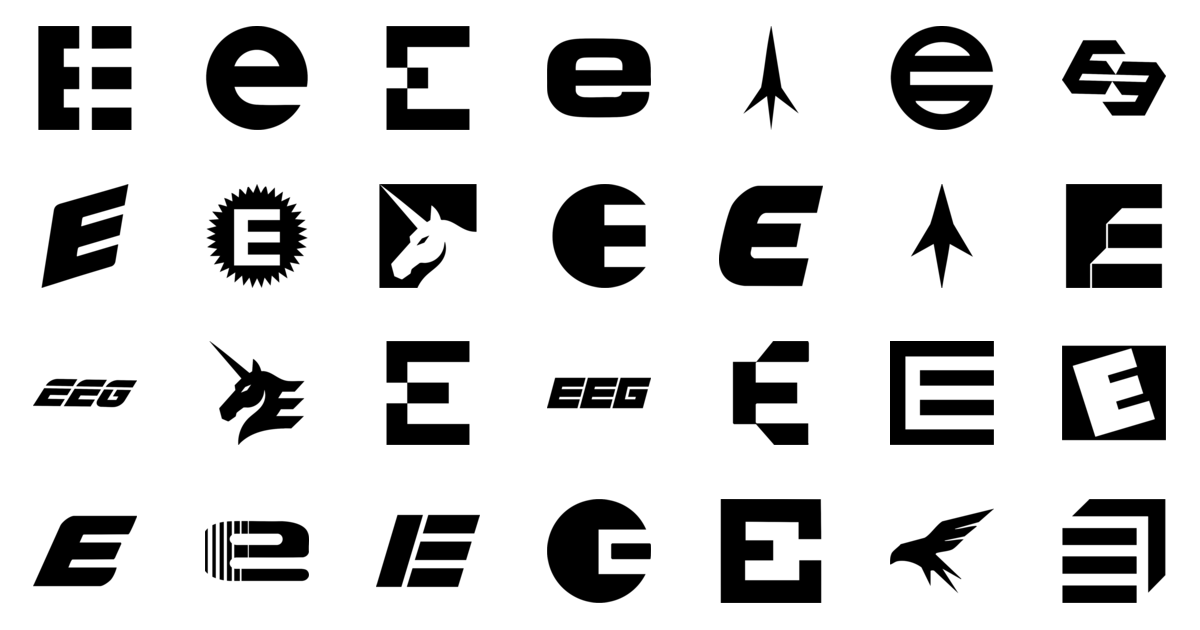
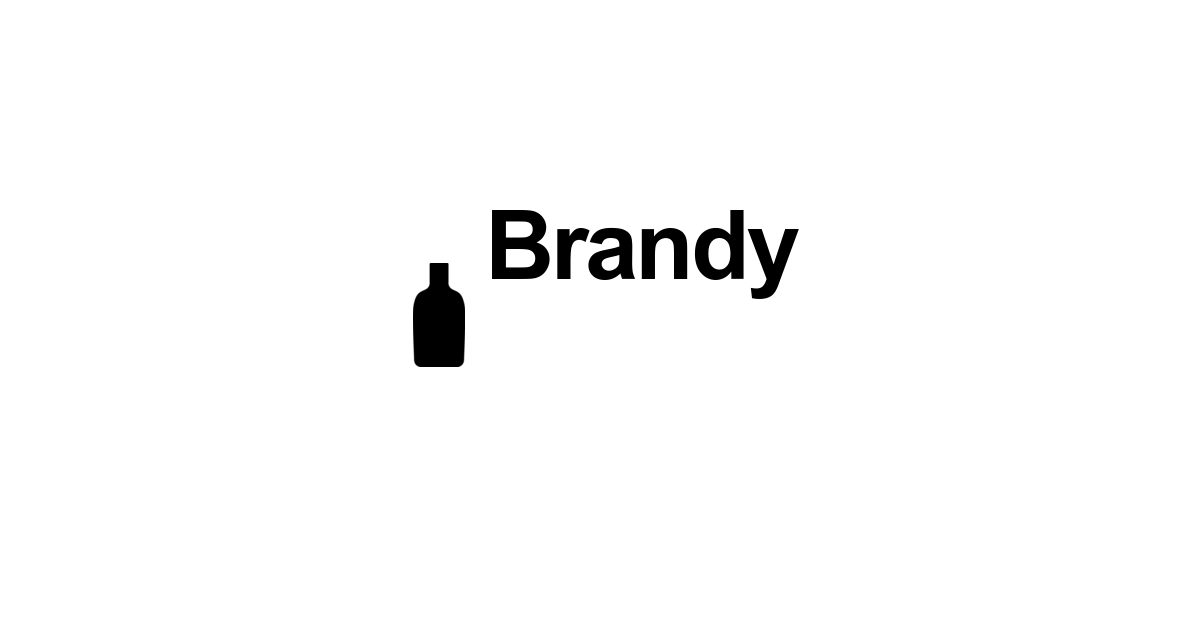
Replace OG image with centered Brandy lockup artwork.

diff --git a/scripts/make-og-image.js b/scripts/make-og-image.js
@@ -4,129 +4,101 @@ const os = require("node:os");
 const path = require("node:path");
 
 const root = path.join(__dirname, "..");
-const logoDir = path.join(root, "assets", "logos");
 const args = new Map(process.argv.slice(2).map((arg) => {
   const [key, value = ""] = arg.split("=");
   return [key, value];
 }));
-const seed = Number(args.get("--seed") || 20260706);
+
+const BRAND_MARK_PATH = "M391.8,734c1.4,31.3-9.8,51.5-33.2,61-13.7,5.4-22.2,5-36.5,5H77.9c-14.3,0-22.8.4-36.5-5-23.5-9.4-34.7-29.6-33.2-61C-4.4,392.9-.9,346.7,8.2,305.9c13.1-58.5,35.4-73.8,44.3-80.2,24.9-17.9,53.7-19.7,68.3-45.1,7.6-13.3,7.9-27,7.1-36.3V8.3c0-4.6,4-8.3,8.9-8.3h126.4c4.9,0,8.9,3.7,8.9,8.3v136c-.8,9.3-.5,23.1,7.1,36.3,14.6,25.5,43.3,27.2,68.3,45.1,9,6.5,31.3,21.7,44.3,80.2,9.1,40.7,12.6,87,0,428.1Z";
+
+const ink = args.get("--ink") || "#000000";
+const paper = args.get("--paper") || "#ffffff";
+const svgOutput = path.resolve(root, args.get("--svg") || "assets/og-image.svg");
 const pngOutput = path.resolve(root, args.get("--output") || "assets/og-image.png");
 const width = 1200;
 const height = 630;
-const logoSize = 104;
+const iconScale = 0.13;
+const iconWidth = Math.round(400 * iconScale);
+const iconHeight = Math.round(800 * iconScale);
+const fontSize = 96;
+const gap = 20;
+const textWidth = Math.round(fontSize * 3.15);
+const lockupWidth = iconWidth + gap + textWidth;
+const lockupLeft = (width - lockupWidth) / 2;
+const iconLeft = Math.round(lockupLeft);
+const textLeft = Math.round(iconLeft + iconWidth + gap);
+const centerY = height / 2;
+const iconTop = Math.round(centerY - iconHeight / 2);
+const textTop = Math.round(centerY - fontSize * 0.38);
 
-function mulberry32(seed) {
-  return () => {
-    let value = seed += 0x6d2b79f5;
-    value = Math.imul(value ^ (value >>> 15), value | 1);
-    value ^= value + Math.imul(value ^ (value >>> 7), value | 61);
-    return ((value ^ (value >>> 14)) >>> 0) / 4294967296;
-  };
-}
+const svg = `<?xml version="1.0" encoding="UTF-8"?>
+<svg xmlns="http://www.w3.org/2000/svg" width="${width}" height="${height}" viewBox="0 0 ${width} ${height}">
+  <rect width="${width}" height="${height}" fill="${paper}"/>
+  <g transform="translate(${iconLeft} ${iconTop}) scale(${iconScale})">
+    <path fill="${ink}" fill-rule="evenodd" d="${BRAND_MARK_PATH}"/>
+  </g>
+  <text
+    x="${textLeft}"
+    y="${textTop + fontSize}"
+    fill="${ink}"
+    font-family="Arial, Helvetica, sans-serif"
+    font-size="${fontSize}"
+    font-weight="700"
+    letter-spacing="-2.8"
+  >Brandy</text>
+</svg>
+`;
 
-function shuffle(items, random) {
-  const result = [...items];
-  for (let index = result.length - 1; index > 0; index -= 1) {
-    const swapIndex = Math.floor(random() * (index + 1));
-    [result[index], result[swapIndex]] = [result[swapIndex], result[index]];
-  }
-  return result;
-}
+const fontPath = [
+  "/System/Library/Fonts/Supplemental/Arial Bold.ttf",
+  "/Library/Fonts/Arial Bold.ttf",
+  "/usr/share/fonts/truetype/dejavu/DejaVuSans-Bold.ttf",
+].find((candidate) => fs.existsSync(candidate));
+const tempDir = fs.mkdtempSync(path.join(os.tmpdir(), "brandy-og-"));
+const iconSvg = path.join(tempDir, "icon.svg");
+const iconPng = path.join(tempDir, "icon.png");
 
-function runMagick(args) {
-  execFileSync("magick", args, { stdio: "inherit" });
-}
+fs.mkdirSync(path.dirname(svgOutput), { recursive: true });
+fs.writeFileSync(svgOutput, svg);
 
-function placeLogo(canvas, logo, placement, output) {
-  const size = Math.round(placement.size);
-  const rotatedSize = Math.ceil(size * 1.45);
-  const x = Math.min(width - rotatedSize, Math.max(0, Math.round(placement.x - rotatedSize / 2)));
-  const y = Math.min(height - rotatedSize, Math.max(0, Math.round(placement.y - rotatedSize / 2)));
-
-  runMagick([
-    canvas,
-    "(",
-    logo,
-    "-resize",
-    `${size}x${size}`,
-    "-background",
-    "none",
-    "-gravity",
-    "center",
-    "-extent",
-    `${rotatedSize}x${rotatedSize}`,
-    "-rotate",
-    placement.rotation.toFixed(2),
-    ")",
-    "-gravity",
-    "northwest",
-    "-geometry",
-    `+${x}+${y}`,
-    "-compose",
-    "over",
-    "-composite",
-    output,
-  ]);
-}
-
-const random = mulberry32(seed);
-const logos = fs.readdirSync(logoDir)
-  .filter((fileName) => /^logo-\d+\.svg$/.test(fileName))
-  .sort();
-const chosenLogos = shuffle(logos, random).slice(0, 48);
-const tempDir = fs.mkdtempSync(path.join(os.tmpdir(), "eeg-og-"));
+fs.writeFileSync(iconSvg, `<?xml version="1.0" encoding="UTF-8"?>
+<svg xmlns="http://www.w3.org/2000/svg" width="400" height="800" viewBox="0 0 400 800">
+  <path fill="${ink}" fill-rule="evenodd" d="${BRAND_MARK_PATH}"/>
+</svg>`);
 
 try {
-  const rasterLogos = new Map(chosenLogos.map((fileName) => {
-    const input = path.join(logoDir, fileName);
-    const output = path.join(tempDir, `${path.basename(fileName, ".svg")}.png`);
-    runMagick([
-      input,
-      "-background",
-      "none",
-      "-trim",
-      "+repage",
-      "-resize",
-      "640x640",
-      "-gravity",
-      "center",
-      "-extent",
-      "640x640",
-      output,
-    ]);
-    return [fileName, output];
-  }));
+  execFileSync("magick", [
+    "-background",
+    "none",
+    iconSvg,
+    "-resize",
+    `${iconWidth}x${iconHeight}`,
+    iconPng,
+  ], { stdio: "inherit" });
 
-  let canvas = path.join(tempDir, "canvas-000.png");
-  runMagick(["-size", `${width}x${height}`, "canvas:white", canvas]);
-
-  const placements = [];
-  const columns = 7;
-  const rows = 4;
-  const cellWidth = width / columns;
-  const cellHeight = height / rows;
-
-  for (let row = 0; row < rows; row += 1) {
-    for (let column = 0; column < columns; column += 1) {
-      placements.push({
-        logo: chosenLogos[placements.length % chosenLogos.length],
-        size: logoSize,
-        x: column * cellWidth + cellWidth / 2,
-        y: row * cellHeight + cellHeight / 2,
-        rotation: 0,
-      });
-    }
-  }
-
-  placements.forEach((placement, index) => {
-    const nextCanvas = index === placements.length - 1
-      ? pngOutput
-      : path.join(tempDir, `canvas-${String(index + 1).padStart(3, "0")}.png`);
-    placeLogo(canvas, rasterLogos.get(placement.logo), placement, nextCanvas);
-    canvas = nextCanvas;
-  });
-
-  console.log(`Wrote ${path.relative(root, pngOutput)}`);
+  execFileSync("magick", [
+    "-size",
+    `${width}x${height}`,
+    `canvas:${paper}`,
+    iconPng,
+    "-geometry",
+    `+${iconLeft}+${iconTop}`,
+    "-composite",
+    ...(fontPath ? ["-font", fontPath] : []),
+    "-fill",
+    ink,
+    "-pointsize",
+    String(fontSize),
+    "-kerning",
+    "-3",
+    "-annotate",
+    `+${textLeft}+${textTop}`,
+    "Brandy",
+    pngOutput,
+  ], { stdio: "inherit" });
 } finally {
   fs.rmSync(tempDir, { force: true, recursive: true });
 }
+
+console.log(`Wrote ${path.relative(root, svgOutput)}`);
+console.log(`Wrote ${path.relative(root, pngOutput)}`);